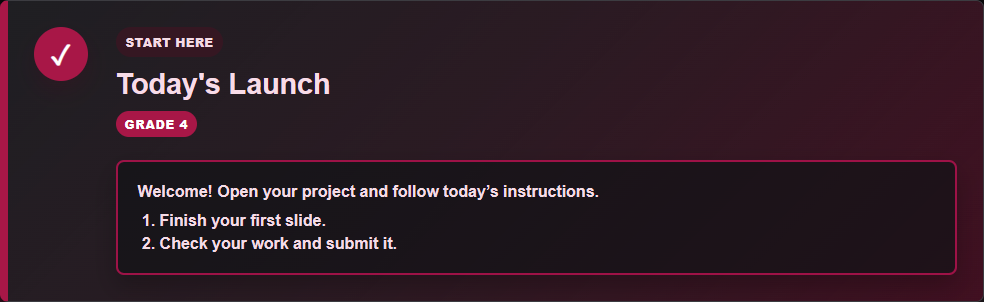
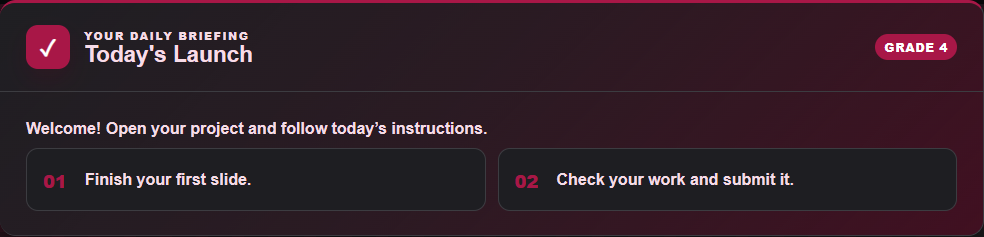
Redesign Today's Launch with compact header and responsive task cards

Changed region(s): [[0.0, 0.0, 1.0, 1.0], [0.5183, 0.7384, 0.8232, 0.7975], [0.8841, 0.1181, 0.9756, 0.2658]]

diff --git a/styles.css b/styles.css
@@ -1398,6 +1398,32 @@ body[data-theme="night"] .daily-launch-message {
   box-shadow: 0 12px 26px rgba(0, 0, 0, 0.24);
 }
 
+/* Full-width briefing: compact header and readable task tiles, without a blank hero area. */
+#home-launch .daily-launch-card { display:block; min-height:0; padding:0; border-left:0; border-top:3px solid var(--blue); border-radius:16px; }
+#home-launch .daily-launch-copy { display:block; }
+#home-launch .daily-launch-heading { display:flex; align-items:center; justify-content:space-between; flex-wrap:wrap; gap:20px; padding:22px 26px; border-bottom:1px solid var(--border); }
+#home-launch .daily-launch-title-group { display:flex; align-items:center; gap:14px; min-width:0; }
+#home-launch .daily-launch-icon { flex:none; width:44px; height:44px; border-radius:12px; font-size:1.4rem; }
+#home-launch .feature-kicker { background:none; padding:0; margin:0 0 6px; font-size:.7rem; letter-spacing:.12em; }
+#home-launch h2 { margin:0; font-size:clamp(1.35rem,2.2vw,1.8rem); }
+#home-launch .daily-launch-audience { display:flex; flex-direction:column; align-items:flex-end; gap:8px; }
+#home-launch .daily-launch-grade { margin:0; }
+#home-launch .daily-launch-teacher-preview { margin:0; }
+#home-launch .daily-launch-message { margin:0; padding:24px 26px; border:0; border-radius:0; background:transparent; box-shadow:none; line-height:1.6; }
+#home-launch .daily-launch-message > :is(ol,ul) { display:grid; gap:12px; margin:0; padding:0; list-style:none; counter-reset:launch-step; }
+#home-launch .daily-launch-message > :is(ol,ul) > li { position:relative; margin:0; padding:18px 18px 18px 58px; border:1px solid var(--border); border-radius:12px; background:var(--white); counter-increment:launch-step; }
+#home-launch .daily-launch-message > ol > li::before { content:counter(launch-step,decimal-leading-zero); }
+#home-launch .daily-launch-message > ul > li::before { content:'✓'; }
+#home-launch .daily-launch-message > :is(ol,ul) > li::before { position:absolute; left:16px; top:18px; color:var(--blue); font-weight:900; font-size:1.1rem; }
+@media(min-width:900px) {
+  #home-launch .daily-launch-message > :is(ol,ul):has(> li:nth-child(2)) { grid-template-columns:repeat(2,minmax(0,1fr)); }
+}
+@media(max-width:600px) {
+  #home-launch .daily-launch-heading { padding:18px; gap:16px; }
+  #home-launch .daily-launch-audience { align-items:flex-start; width:100%; }
+  #home-launch .daily-launch-message { padding:18px; }
+}
+
 .random-activity-card {
   position: relative;
   display: grid;

diff --git a/app.js b/app.js
@@ -2461,11 +2461,14 @@ function renderHomeDefault() {
         <video class="daily-launch-bg-video" autoplay muted loop playsinline aria-hidden="true">
           <source data-src="assets/daily-launch-bg.mp4?v=20260905-optimized1" type="video/mp4">
         </video>
-        <div class="daily-launch-icon" aria-hidden="true">✓</div>
         <div class="daily-launch-copy">
-          <span class="feature-kicker">Start Here</span>
-          <h2>Today's Launch</h2>
-          ${launchAudienceLabel ? `<span class="daily-launch-grade">${escapeHtml(launchAudienceLabel)}</span>` : ""}
+          <header class="daily-launch-heading">
+            <div class="daily-launch-title-group">
+              <div class="daily-launch-icon" aria-hidden="true">✓</div>
+              <div><span class="feature-kicker">Your daily briefing</span><h2>Today's Launch</h2></div>
+            </div>
+            <div class="daily-launch-audience">
+              ${launchAudienceLabel ? `<span class="daily-launch-grade">${escapeHtml(launchAudienceLabel)}</span>` : ""}
           ${isTeacher() ? `
             <div class="daily-launch-teacher-preview" aria-label="Preview Today's Launch by grade">
               <span>Showing:</span>
@@ -2483,6 +2486,8 @@ function renderHomeDefault() {
               </div>
             </div>
           ` : ""}
+            </div>
+          </header>
           <div class="daily-launch-message">${launchMessage}</div>
         </div>
       </section>

diff --git a/work/verify-wide-launch.js b/work/verify-wide-launch.js
@@ -15,6 +15,12 @@ const {chromium}=require('playwright');
  const layout=await page.locator('#home-launch').evaluate(e=>{const c=e.querySelector('.daily-launch-card'),m=e.querySelector('.daily-launch-message'),copy=e.querySelector('.daily-launch-copy');return {row:e.getBoundingClientRect().width,card:c.getBoundingClientRect().width,message:m.getBoundingClientRect().width,copy:copy.getBoundingClientRect().width,overflow:e.scrollWidth>e.clientWidth}});
  assert(Math.abs(layout.row-layout.card)<2);assert(Math.abs(layout.message-layout.copy)<2);assert(!layout.overflow);
  assert.equal(await page.locator('.daily-launch-preview-tab').count(),teacher?3:0);
+ const tasks=page.locator('.daily-launch-message > ol > li');
+ const boxes=await tasks.evaluateAll(nodes=>nodes.map(n=>{const r=n.getBoundingClientRect();return {x:r.x,y:r.y}}));
+ assert.equal(boxes.length,2);
+ if(width>=900){assert(Math.abs(boxes[0].y-boxes[1].y)<1);assert(boxes[1].x>boxes[0].x);}
+ else {assert(boxes[1].y>boxes[0].y);}
+ if(teacher)await page.locator('#home-launch').screenshot({path:'work/launch-briefing-teacher-'+width+'.png'});
  if(!teacher)await page.locator('#home-launch').screenshot({path:'work/wide-launch-'+width+'.png'});
  await page.close();
  }

diff --git a/index.html b/index.html
@@ -10,7 +10,7 @@
   <link rel="icon" type="image/png" sizes="16x16" href="/favicon-16x16.png?v=20260727-shield2">
   <link rel="apple-touch-icon" sizes="180x180" href="/apple-touch-icon.png?v=20260727-shield2">
   <link rel="manifest" href="/site.webmanifest?v=20260901-single-client-v1">
-  <link rel="stylesheet" href="styles.css?v=20260926-launch-wide-v41">
+  <link rel="stylesheet" href="styles.css?v=20260926-launch-briefing-v42">
   <link rel="stylesheet" href="launchpad-scenes.css?v=20260926-christian-v44">
   <link rel="stylesheet" href="scene-frame-fit.css?v=20260920-fit-v3">
   <link rel="stylesheet" href="collectible-shelf.css?v=20260925-christian-v20">
@@ -25,7 +25,7 @@
   <script src="launchpad-scenes.js?v=20260926-christian-v41"></script>
   <script src="profile-banners.js?v=20260922-v5"></script>
 <script src="collectible-shelf.js?v=20260925-christian-v33"></script>
-  <script src="app.js?v=20260926-launch-wide-v69"></script>
+  <script src="app.js?v=20260926-launch-briefing-v70"></script>
   <script src="colt-assistant.js?v=20260905-lazy-artwork-v2"></script>
   <script src="colt-radio.js?v=20260925-michael-jackson-v24"></script>
   <script src="launchpad-colt.js?v=20260908-bathing-panel-v9"></script>
